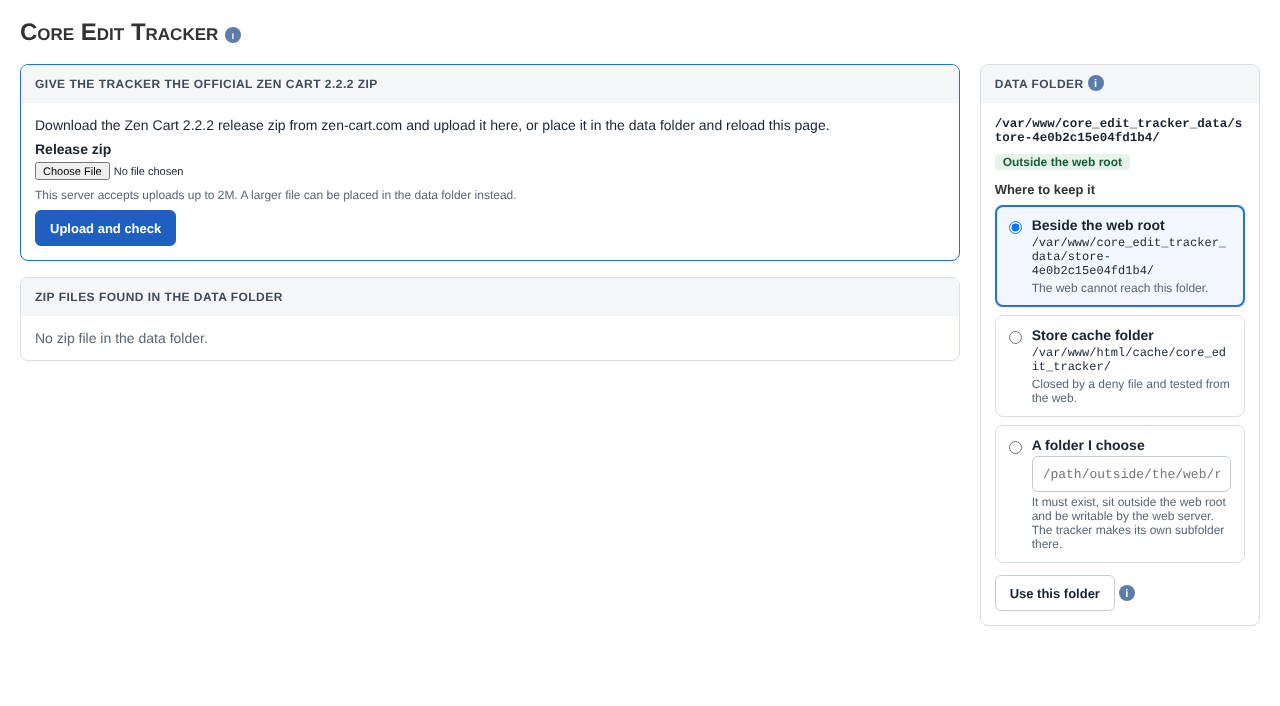
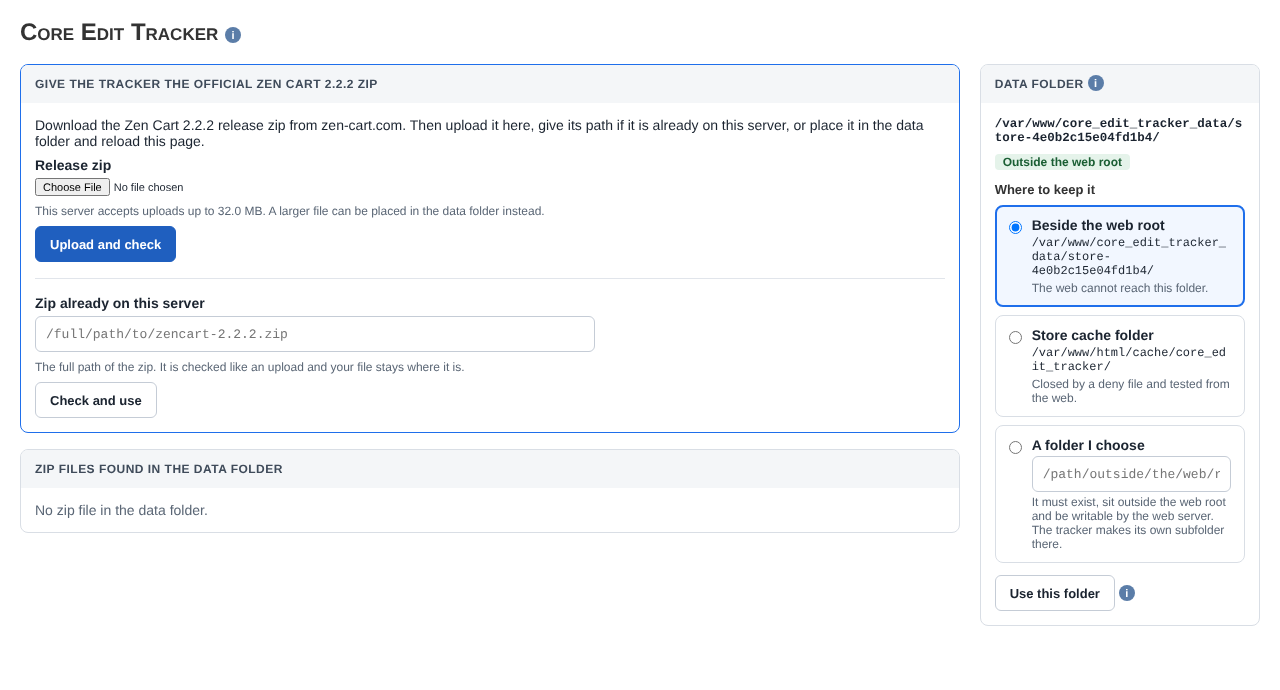
v1.0.2: use a zip already on the server
First screen accepts the full path of a release zip already on the server. When the upload limit is too small or uploads are off, the page says so and puts the path option first. Upload limit shown is the smaller of upload_max_filesize and post_max_size.

diff --git a/zc_plugins/CoreEditTracker/v1.0.2/admin/core_edit_tracker.php b/zc_plugins/CoreEditTracker/v1.0.2/admin/core_edit_tracker.php
@@ -6,7 +6,7 @@
  * @author      Marcopolo
  * @copyright   2026
  * @license     GNU General Public License (GPL) - https://www.zen-cart.com/license/2_0.txt
- * @version     1.0.1
+ * @version     1.0.2
  * @updated     11-22-2026
  * @github      https://github.com/CcMarc/CoreEditTracker
  */
@@ -37,6 +37,21 @@ $cetBytes = static function ($bytes): string {
     return $bytes >= 1024 ? sprintf(CET_SIZE_KB, number_format($bytes / 1024, 1)) : sprintf(CET_SIZE_B, $bytes);
 };
 $cetDate = static fn($time): string => $time ? date('Y-m-d H:i', (int)$time) : '';
+$cetIniBytes = static function (string $name): int {
+    $value = trim((string)ini_get($name));
+    $number = (float)$value;
+    switch (strtolower(substr($value, -1))) {
+        case 'g':
+            $number *= 1024;
+            // no break
+        case 'm':
+            $number *= 1024;
+            // no break
+        case 'k':
+            $number *= 1024;
+    }
+    return (int)$number;
+};
 $cetText = static function (string $prefix, string $code, string $fallback = ''): string {
     $key = $prefix . strtoupper(preg_replace('~[^A-Za-z0-9]+~', '_', $code));
     return defined($key) ? (string)constant($key) : ($fallback !== '' ? $fallback : $code);
@@ -128,6 +143,21 @@ if ($_SERVER['REQUEST_METHOD'] === 'POST') {
                 break;
             }
             $cetResult = $cetTracker->useZip($cetPlaced, false, $cetName);
+            if ($cetResult['ok']) {
+                $messageStack->add_session(sprintf(CET_MSG_RELEASE_OK, $cetEsc($cetResult['version']), (int)$cetResult['files']), 'success');
+                $cetReturn = '';
+            } else {
+                $messageStack->add_session(sprintf(CET_MSG_REFUSED, $cetEsc($cetRefused($cetResult))) . ' ' . CET_MSG_NOTHING_KEPT . ' ' . CET_MSG_PLACED_LEFT, 'error');
+            }
+            break;
+
+        case 'use_path':
+            $cetGiven = DataFolder::zipAt(is_string($_POST['zip_path'] ?? null) ? $_POST['zip_path'] : '');
+            if (!isset($cetGiven['file'])) {
+                $messageStack->add_session(sprintf(CET_MSG_PATH_REFUSED, $cetEsc($cetText('CET_PATH_REASON_', (string)$cetGiven['reason']))), 'error');
+                break;
+            }
+            $cetResult = $cetTracker->useZip($cetGiven['file'], false, basename($cetGiven['file']));
             if ($cetResult['ok']) {
                 $messageStack->add_session(sprintf(CET_MSG_RELEASE_OK, $cetEsc($cetResult['version']), (int)$cetResult['files']), 'success');
                 $cetReturn = '';
@@ -551,6 +581,8 @@ $cetFolderPanel = static function (bool $wide = false) use ($cetFolder, $cetFold
         .cet-choice-on { border: 2px solid #1f6feb; padding: 10px 12px; background: #f2f7ff; }
         .cet-choice > span { display: flex; flex-direction: column; gap: 3px; min-width: 0; flex: 1 1 auto; }
         .cet-choice .cet-input { width: 100%; }
+        .cet-input.cet-wide { display: block; width: 100%; max-width: 560px; }
+        .cet-rule { border: 0; border-top: 1px solid #e1e5eb; margin: 16px 0; }
         .cet-choice label { margin: 0; font-weight: 400; }
         .cet-check { display: flex; gap: 10px; align-items: flex-start; margin: 0 0 8px; font-weight: 400; font-size: 13px; }
         .cet-steps { margin: 0; padding: 12px 14px 12px 36px; font-size: 13px; line-height: 22px; }
@@ -589,13 +621,50 @@ if ($cetRelease === null) {
                         <p class="cet-warn-text cet-strong"><?= $cetEsc(sprintf(CET_FIRST_RUN_OUTDATED, $cetVersion, $cetOutdated['version'])) ?></p>
                     <?php } ?>
                     <p><?= $cetEsc(sprintf(CET_FIRST_RUN_TEXT, $cetVersion)) ?></p>
-                    <?= zen_draw_form('cet_upload', FILENAME_CORE_EDIT_TRACKER, '', 'post', 'enctype="multipart/form-data"') ?>
-                        <input type="hidden" name="action" value="upload">
-                        <p><label for="cet-release-zip"><?= $cetEsc(CET_UPLOAD_LABEL) ?></label>
-                            <input type="file" id="cet-release-zip" name="release_zip" accept=".zip,application/zip" required></p>
-                        <p class="cet-muted cet-small"><?= $cetEsc(sprintf(CET_UPLOAD_LIMIT, (string)ini_get('upload_max_filesize'))) ?></p>
-                        <button type="submit" class="cet-btn cet-btn-primary"><?= $cetEsc(CET_UPLOAD_BUTTON) ?></button>
-                    </form>
+                    <?php
+                    $cetUploads = (bool)ini_get('file_uploads');
+                    $cetLimits = array_filter([$cetIniBytes('upload_max_filesize'), $cetIniBytes('post_max_size')]);
+                    $cetLimit = $cetLimits === [] ? 0 : min($cetLimits);
+                    $cetSmall = !$cetUploads || ($cetLimit > 0 && $cetLimit < ReleaseZip::EXPECTED_ZIP_BYTES);
+                    $cetUploadForm = static function () use ($cetEsc, $cetBytes, $cetLimit, $cetSmall): void {
+                        ?>
+                        <?= zen_draw_form('cet_upload', FILENAME_CORE_EDIT_TRACKER, '', 'post', 'enctype="multipart/form-data"') ?>
+                            <input type="hidden" name="action" value="upload">
+                            <p><label for="cet-release-zip"><?= $cetEsc(CET_UPLOAD_LABEL) ?></label>
+                                <input type="file" id="cet-release-zip" name="release_zip" accept=".zip,application/zip" required></p>
+                            <?php if (!$cetSmall && $cetLimit > 0) { ?>
+                                <p class="cet-muted cet-small"><?= $cetEsc(sprintf(CET_UPLOAD_LIMIT, $cetBytes($cetLimit))) ?></p>
+                            <?php } ?>
+                            <button type="submit" class="cet-btn<?= $cetSmall ? '' : ' cet-btn-primary' ?>"><?= $cetEsc(CET_UPLOAD_BUTTON) ?></button>
+                        </form>
+                        <?php
+                    };
+                    $cetPathForm = static function () use ($cetEsc, $cetVersion, $cetSmall): void {
+                        ?>
+                        <?= zen_draw_form('cet_path', FILENAME_CORE_EDIT_TRACKER) ?>
+                            <input type="hidden" name="action" value="use_path">
+                            <p><label for="cet-zip-path"><?= $cetEsc(CET_PATH_LABEL) ?></label>
+                                <input type="text" id="cet-zip-path" name="zip_path" class="cet-input cet-mono cet-wide" placeholder="/full/path/to/zencart-<?= $cetEsc($cetVersion) ?>.zip" required></p>
+                            <p class="cet-muted cet-small"><?= $cetEsc(CET_PATH_TEXT) ?></p>
+                            <button type="submit" class="cet-btn<?= $cetSmall ? ' cet-btn-primary' : '' ?>"><?= $cetEsc(CET_PATH_BUTTON) ?></button>
+                        </form>
+                        <?php
+                    };
+                    if ($cetSmall) {
+                        ?>
+                        <p class="cet-warn-text cet-strong"><?= $cetEsc($cetUploads ? sprintf(CET_UPLOAD_SMALL, $cetBytes($cetLimit)) : CET_UPLOAD_OFF) ?></p>
+                        <?php
+                        $cetPathForm();
+                        if ($cetUploads) {
+                            ?><hr class="cet-rule"><?php
+                            $cetUploadForm();
+                        }
+                    } else {
+                        $cetUploadForm();
+                        ?><hr class="cet-rule"><?php
+                        $cetPathForm();
+                    }
+                    ?>
                 </div>
             </section>
             <section class="cet-card">

diff --git a/zc_plugins/CoreEditTracker/v1.0.2/admin/includes/languages/english/lang.core_edit_tracker.php b/zc_plugins/CoreEditTracker/v1.0.2/admin/includes/languages/english/lang.core_edit_tracker.php
@@ -6,8 +6,8 @@
  * @author      Marcopolo
  * @copyright   2026
  * @license     GNU General Public License (GPL) - https://www.zen-cart.com/license/2_0.txt
- * @version     1.0.0
- * @updated     11-21-2026
+ * @version     1.0.2
+ * @updated     11-22-2026
  * @github      https://github.com/CcMarc/CoreEditTracker
  */
 if (!defined('IS_ADMIN_FLAG')) {
@@ -20,11 +20,16 @@ $define = [
     'CET_INTRO_TIP' => 'Compares this store with the official Zen Cart release it runs. It only reads files. It never changes a store file.',
 
     'CET_FIRST_RUN_TITLE' => 'Give the tracker the official Zen Cart %s zip',
-    'CET_FIRST_RUN_TEXT' => 'Download the Zen Cart %s release zip from zen-cart.com and upload it here, or place it in the data folder and reload this page.',
+    'CET_FIRST_RUN_TEXT' => 'Download the Zen Cart %s release zip from zen-cart.com. Then upload it here, give its path if it is already on this server, or place it in the data folder and reload this page.',
     'CET_FIRST_RUN_OUTDATED' => 'This store now runs Zen Cart %1$s. The release zip the tracker holds is %2$s, so it can no longer be compared. Add the %1$s zip to carry on.',
     'CET_UPLOAD_LABEL' => 'Release zip',
     'CET_UPLOAD_BUTTON' => 'Upload and check',
     'CET_UPLOAD_LIMIT' => 'This server accepts uploads up to %s. A larger file can be placed in the data folder instead.',
+    'CET_UPLOAD_SMALL' => 'This server accepts uploads up to %s, which is likely too small for the Zen Cart zip. Give the path of a zip already on this server, or place it in the data folder.',
+    'CET_UPLOAD_OFF' => 'This server does not accept uploads. Give the path of a zip already on this server, or place it in the data folder.',
+    'CET_PATH_LABEL' => 'Zip already on this server',
+    'CET_PATH_TEXT' => 'The full path of the zip. It is checked like an upload and your file stays where it is.',
+    'CET_PATH_BUTTON' => 'Check and use',
     'CET_PLACED_TITLE' => 'Zip files found in the data folder',
     'CET_USE_PLACED' => 'Use this file',
     'CET_NO_PLACED' => 'No zip file in the data folder.',
@@ -303,6 +308,9 @@ Some files on this store belong to a plugin.
     'CET_MSG_REFUSED' => 'The zip was refused: %s.',
     'CET_MSG_NOTHING_KEPT' => 'Nothing of it was kept.',
     'CET_MSG_PLACED_LEFT' => 'Your file was left where it is.',
+    'CET_MSG_PATH_REFUSED' => 'That path cannot be used: %s.',
+    'CET_PATH_REASON_NOT_ABSOLUTE' => 'give the full path of the zip',
+    'CET_PATH_REASON_NOT_FOUND' => 'no readable zip file was found there',
     'CET_MSG_BAD_REQUEST' => 'The request was refused. Reload the page and try again.',
     'CET_MSG_UPLOAD_ERROR' => 'The upload did not arrive (code %s).',
     'CET_MSG_UPLOAD_TOO_LARGE' => 'The file is larger than this server accepts. Place it in the data folder instead.',

diff --git a/zc_plugins/CoreEditTracker/v1.0.2/admin/includes/classes/DataFolder.php b/zc_plugins/CoreEditTracker/v1.0.2/admin/includes/classes/DataFolder.php
@@ -6,8 +6,8 @@
  * @author      Marcopolo
  * @copyright   2026
  * @license     GNU General Public License (GPL) - https://www.zen-cart.com/license/2_0.txt
- * @version     1.0.0
- * @updated     11-21-2026
+ * @version     1.0.2
+ * @updated     11-22-2026
  * @github      https://github.com/CcMarc/CoreEditTracker
  */
 namespace Zencart\Plugins\Admin\CoreEditTracker;
@@ -107,6 +107,26 @@ class DataFolder
             return ['reason' => 'not_writable'];
         }
         return ['folder' => new self($target, true)];
+    }
+
+    /**
+     * A zip the owner already has on the server, by its full path. Only found, never changed.
+     */
+    public static function zipAt(string $path): array
+    {
+        $path = trim($path);
+        if ($path === '' || strlen($path) > 1024 || strpbrk($path, "\0") !== false
+            || ($path[0] !== '/' && preg_match('~^[A-Za-z]:[\\\\/]~', $path) !== 1)) {
+            return ['reason' => 'not_absolute'];
+        }
+        if (!self::allowedByBasedir(str_replace('\\', '/', $path))) {
+            return ['reason' => 'not_found'];
+        }
+        $real = realpath($path);
+        if ($real === false || !is_file($real) || !is_readable($real) || preg_match('~\.zip$~i', $real) !== 1) {
+            return ['reason' => 'not_found'];
+        }
+        return ['file' => $real];
     }
 
     /**

diff --git a/zc_plugins/CoreEditTracker/v1.0.2/admin/includes/classes/ReleaseZip.php b/zc_plugins/CoreEditTracker/v1.0.2/admin/includes/classes/ReleaseZip.php
@@ -6,8 +6,8 @@
  * @author      Marcopolo
  * @copyright   2026
  * @license     GNU General Public License (GPL) - https://www.zen-cart.com/license/2_0.txt
- * @version     1.0.0
- * @updated     11-21-2026
+ * @version     1.0.2
+ * @updated     11-22-2026
  * @github      https://github.com/CcMarc/CoreEditTracker
  */
 namespace Zencart\Plugins\Admin\CoreEditTracker;
@@ -24,6 +24,8 @@ class ReleaseZip
     public const MAX_ZIP_BYTES = 64 * 1024 * 1024;
     public const MAX_ENTRY_BYTES = 16 * 1024 * 1024;
     public const MAX_ENTRIES = 20000;
+    // Zen Cart 2.x release zips are 9 to 10 MB. An upload limit below this is treated as too small.
+    public const EXPECTED_ZIP_BYTES = 12 * 1024 * 1024;
 
     // Files every Zen Cart release has had. The version file is checked apart from these.
     private const SIGNATURE_PATHS = [

diff --git a/zc_plugins/CoreEditTracker/v1.0.2/manifest.php b/zc_plugins/CoreEditTracker/v1.0.2/manifest.php
@@ -6,7 +6,7 @@
  * @author      Marcopolo
  * @copyright   2026
  * @license     GNU General Public License (GPL) - https://www.zen-cart.com/license/2_0.txt
- * @version     1.0.1
+ * @version     1.0.2
  * @updated     11-22-2026
  * @github      https://github.com/CcMarc/CoreEditTracker
  */
@@ -15,7 +15,7 @@ if (!defined('IS_ADMIN_FLAG')) {
 }
 
 return [
-    'pluginVersion' => 'v1.0.1',
+    'pluginVersion' => 'v1.0.2',
     'pluginName' => 'Core Edit Tracker',
     'pluginDescription' => 'Compares the store with the official Zen Cart release it runs. Lists every edited core file and template override, shows each difference side by side, marks what changed since the last look, and exports your files with their originals so your edits can be carried to the next release. View only.',
     'pluginAuthor' => 'Marcopolo',
